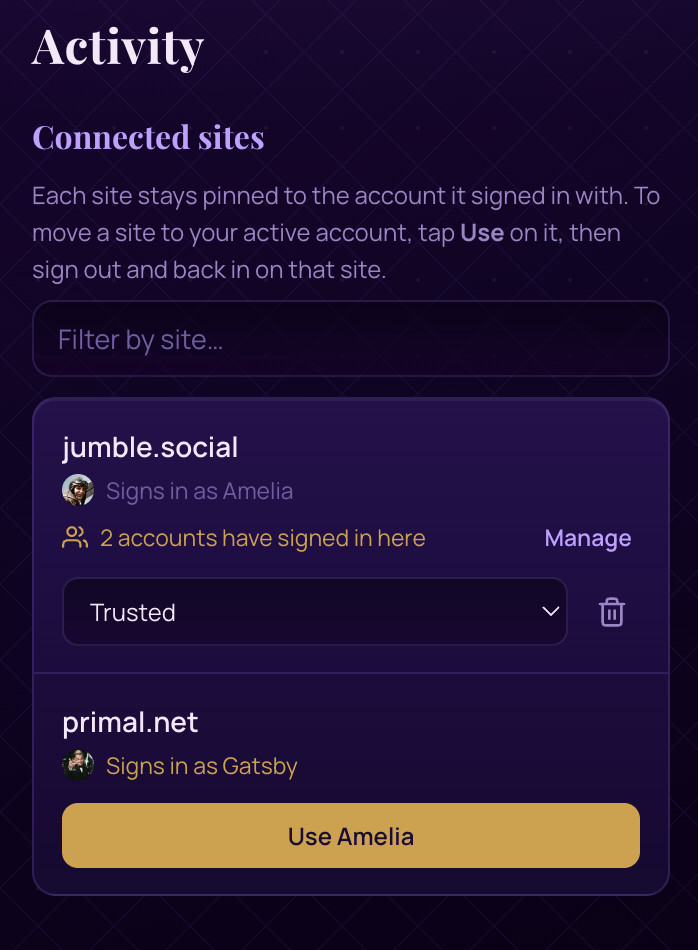
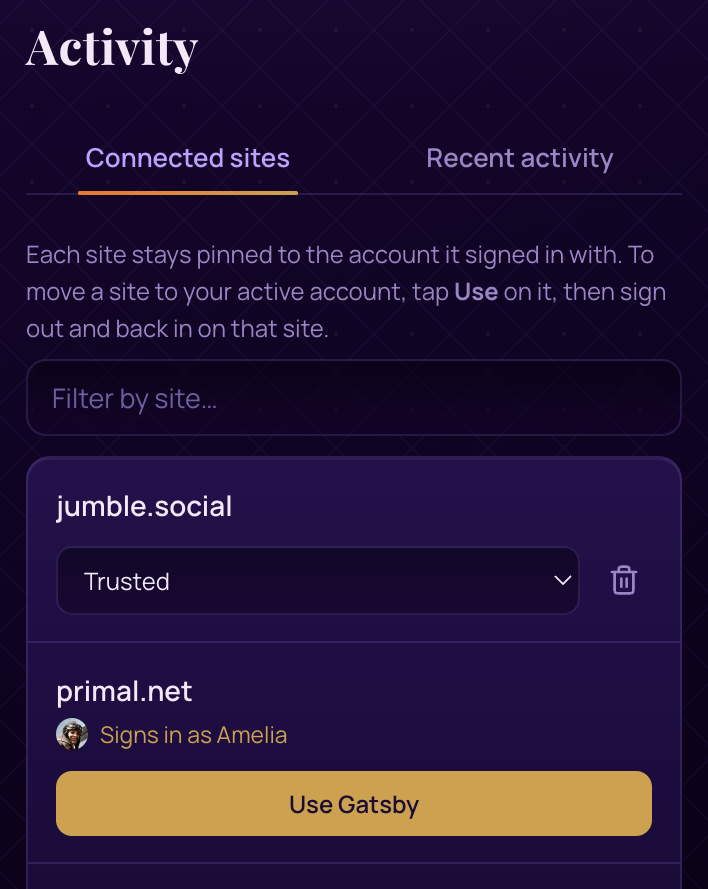
Activity: sub-tabs, in-place site forget, refreshed screenshot
- Split the Activity view into Connected sites / Recent activity sub-tabs
  so they're one tap apart instead of a scroll.
- Forgetting a site (and canceling) now acts on that row in place instead
  of re-rendering the whole view, so revoking a site deep in an expanded
  list no longer collapses it back to page one.
- Refresh the connected-sites help screenshot to the sub-tab layout.

diff --git a/sidepanel.js b/sidepanel.js
@@ -680,6 +680,21 @@
     });
   });
 
+  // ---- activity sub-tabs: Connected sites | Recent activity ----
+  // Both panes are populated by renderActivity regardless of which is showing;
+  // this just toggles which one is visible so they're one tap apart instead of a
+  // scroll. Selection persists across re-renders (renderActivity leaves the pane
+  // containers' visibility alone).
+  document.querySelectorAll('#activity-subtabs .modal-tab').forEach((btn) => {
+    btn.addEventListener('click', () => {
+      document.querySelectorAll('#activity-subtabs .modal-tab').forEach((b) => b.classList.remove('active'));
+      btn.classList.add('active');
+      const sub = btn.dataset.subtab;
+      $('activity-pane-sites').classList.toggle('hidden', sub !== 'sites');
+      $('activity-pane-log').classList.toggle('hidden', sub !== 'log');
+    });
+  });
+
   // ---- main / accounts ----
   function shortNpub(npub) {
     return npub && npub.length > 20 ? npub.slice(0, 14) + '…' + npub.slice(-6) : npub || '';
@@ -2489,7 +2504,7 @@
     return new Date(ts).toLocaleDateString();
   }
 
-  function siteRow(host, level, boundPk, authorizedPks) {
+  function siteRow(host, level, boundPk, authorizedPks, onForget) {
     const boundAcct = boundPk ? state.accounts.find((a) => a.pubkey === boundPk) : null;
     const isActiveBound = boundPk && boundPk === state.activePubkey;
     // 2+ accounts have signed in here — a multi-login client (Jumble, YakiHonne,
@@ -2537,30 +2552,39 @@
       return row;
     }
 
-    // Bound to the active account (or unbound): tier selector + forget.
-    const sel = document.createElement('select');
-    sel.className = 'level-select';
-    LEVELS.forEach(([v, l]) => {
-      const o = h('option', { value: v, textContent: l });
-      if (v === level) o.selected = true;
-      sel.append(o);
-    });
-    sel.addEventListener('change', () => call({ type: 'SIDECAR_SET_LEVEL', host, level: sel.value }));
-    // Forget needs a deliberate step — first tap swaps the controls for an inline
-    // "Forget this site?" confirm so a stray click can't wipe a site's trust.
-    const rm = iconButton('Forget site', 'trash', () => {
+    // Bound to the active account (or unbound): tier selector + forget. Both the
+    // forget confirm and its cancel act on THIS row in place (rather than
+    // re-rendering the whole Activity view), so revoking a site deep in an
+    // expanded list doesn't collapse it back to page one — you can act on the
+    // neighbors right away.
+    function buildControls() {
       controls.innerHTML = '';
-      const msg = h('span', { className: 'confirm-msg', textContent: 'Forget this site?' });
-      const yes = h('button', { className: 'mini del-confirm', textContent: 'Forget' });
-      const no = h('button', { className: 'mini ghost', textContent: 'Cancel' });
-      no.addEventListener('click', () => renderActivity());
-      yes.addEventListener('click', async () => {
-        await call({ type: 'SIDECAR_REMOVE_HOST', host });
-        renderActivity();
+      const sel = document.createElement('select');
+      sel.className = 'level-select';
+      LEVELS.forEach(([v, l]) => {
+        const o = h('option', { value: v, textContent: l });
+        if (v === level) o.selected = true;
+        sel.append(o);
       });
-      controls.append(msg, yes, no);
-    });
-    controls.append(sel, rm);
+      sel.addEventListener('change', () => call({ type: 'SIDECAR_SET_LEVEL', host, level: sel.value }));
+      // Forget needs a deliberate step — first tap swaps the controls for an inline
+      // "Forget this site?" confirm so a stray click can't wipe a site's trust.
+      const rm = iconButton('Forget site', 'trash', () => {
+        controls.innerHTML = '';
+        const msg = h('span', { className: 'confirm-msg', textContent: 'Forget this site?' });
+        const yes = h('button', { className: 'mini del-confirm', textContent: 'Forget' });
+        const no = h('button', { className: 'mini ghost', textContent: 'Cancel' });
+        no.addEventListener('click', buildControls); // restore controls in place
+        yes.addEventListener('click', async () => {
+          await call({ type: 'SIDECAR_REMOVE_HOST', host });
+          row.remove();
+          if (onForget) onForget();
+        });
+        controls.append(msg, yes, no);
+      });
+      controls.append(sel, rm);
+    }
+    buildControls();
     return row;
   }
 
@@ -2677,6 +2701,15 @@
     } else {
       show(sitesFilter);
       sitesFilter.value = '';
+      // A row forgotten in place removes just itself (see siteRow); if that was
+      // the last one, drop to the empty state without a full re-render.
+      const onSiteForgotten = () => {
+        if (sites.querySelector('.site-item')) return;
+        sites.classList.add('empty');
+        listState(sites, 'No sites have connected yet.');
+        hide(sitesMore);
+        hide(sitesFilter);
+      };
       const renderSites = () => {
         sites.innerHTML = '';
         const q = sitesFilter.value.trim().toLowerCase();
@@ -2692,7 +2725,7 @@
         let shownSites = 0;
         const renderSitesPage = () => {
           filtered.slice(shownSites, shownSites + SITES_PAGE).forEach((host) =>
-            sites.append(siteRow(host, perms[host] ? perms[host].level : 'ask', bindings[host] || null, authorized[host] || null))
+            sites.append(siteRow(host, perms[host] ? perms[host].level : 'ask', bindings[host] || null, authorized[host] || null, onSiteForgotten))
           );
           shownSites = Math.min(shownSites + SITES_PAGE, filtered.length);
           if (shownSites >= filtered.length) hide(sitesMore);

diff --git a/sidepanel.html b/sidepanel.html
@@ -107,15 +107,17 @@
       <!-- Activity: signing history + per-site permission tiers -->
       <div class="tabview hidden" id="tab-activity">
         <h2>Activity</h2>
-        <div class="setting">
-          <h3>Connected sites</h3>
+        <div class="modal-tabs" id="activity-subtabs">
+          <button class="modal-tab active" data-subtab="sites">Connected sites</button>
+          <button class="modal-tab" data-subtab="log">Recent activity</button>
+        </div>
+        <div class="setting activity-pane" id="activity-pane-sites">
           <p class="hint">Each site stays pinned to the account it signed in with. To move a site to your active account, tap <b>Use</b> on it, then sign out and back in on that site.</p>
           <input type="text" class="filter-input hidden" id="sites-filter" placeholder="Filter by site…" />
           <div id="sites-list" class="list flat"></div>
           <button class="ghost show-more-btn hidden" id="sites-more">Show more</button>
         </div>
-        <div class="setting">
-          <h3>Recent activity</h3>
+        <div class="setting activity-pane hidden" id="activity-pane-log">
           <input type="text" class="filter-input hidden" id="activity-filter" placeholder="Filter by site…" />
           <div id="activity-list" class="list flat"></div>
           <button class="ghost show-more-btn hidden" id="activity-more">Show more</button>